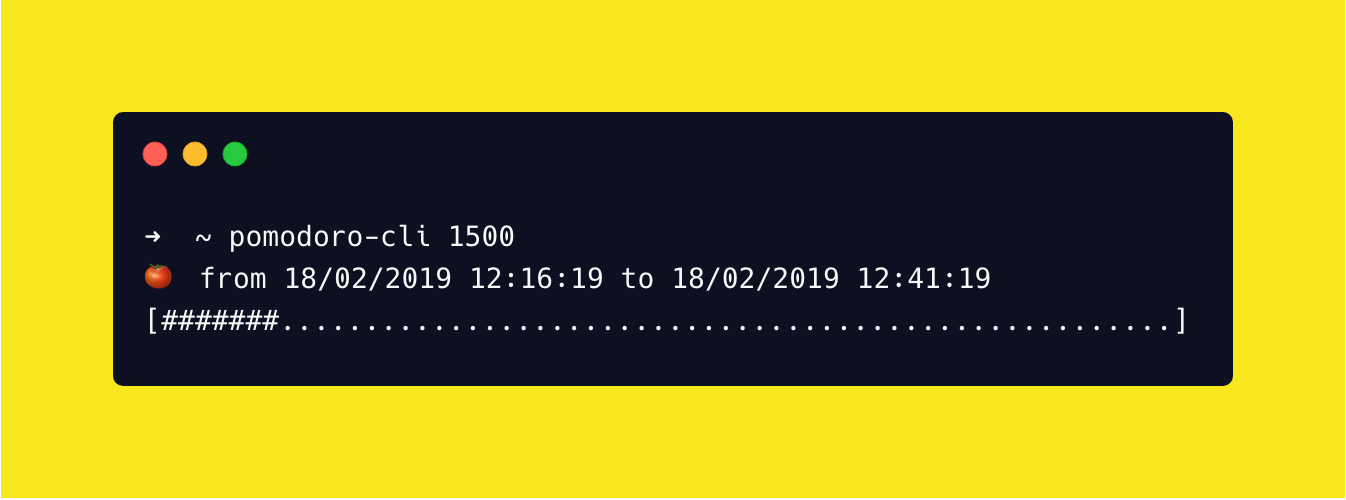
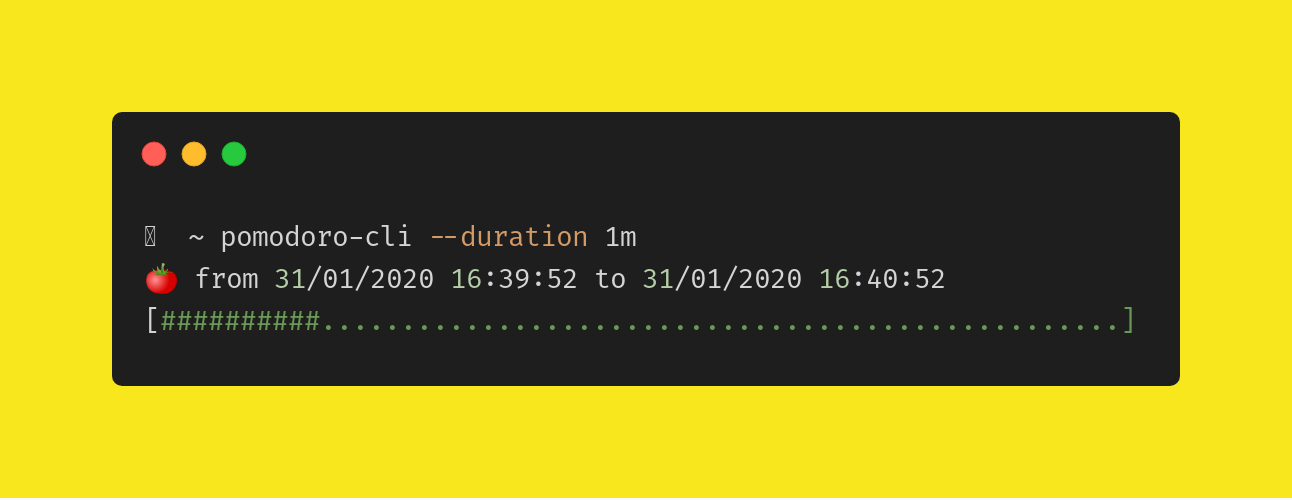
docs: update README and Carbon screenshot

diff --git a/README.md b/README.md
@@ -22,16 +22,14 @@ make deploy
   </a>
 </div>
 
-`pomodoro-cli` only supports one option: the duration of your pomodoro timer in seconds. Its default value sticks to the pomodoro book: `1500` (25 minutes × 60 seconds = 1,500 seconds).
-
 ```
 > pomodoro-cli --help
 Usage:
 
-    $ pomodoro-cli
+    $ .build/debug/PomodoroCLI
 
 Options:
-    --duration - The duration of the pomodoro in seconds.
+    --duration [default: 1500] - The duration of the pomodoro in seconds (100) or in minutes (10m).
 ```
 
 ## Contributing
